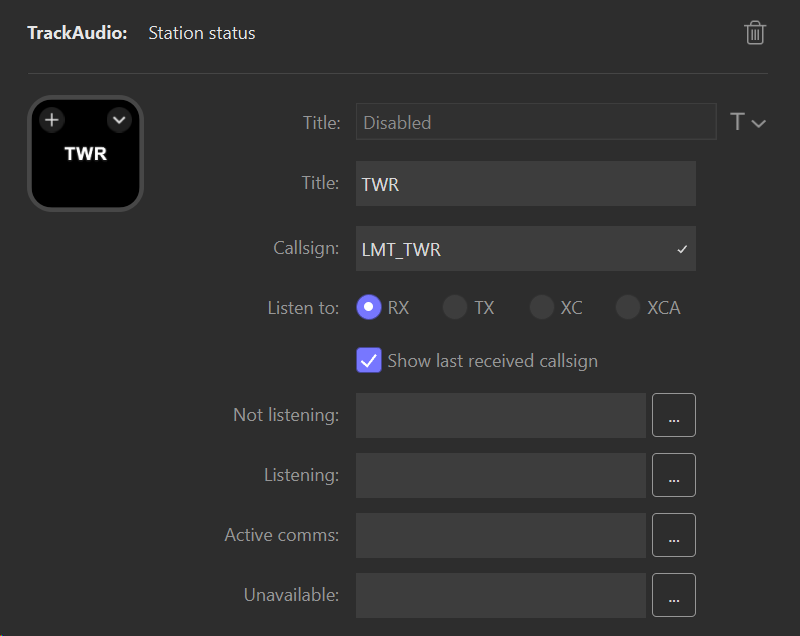
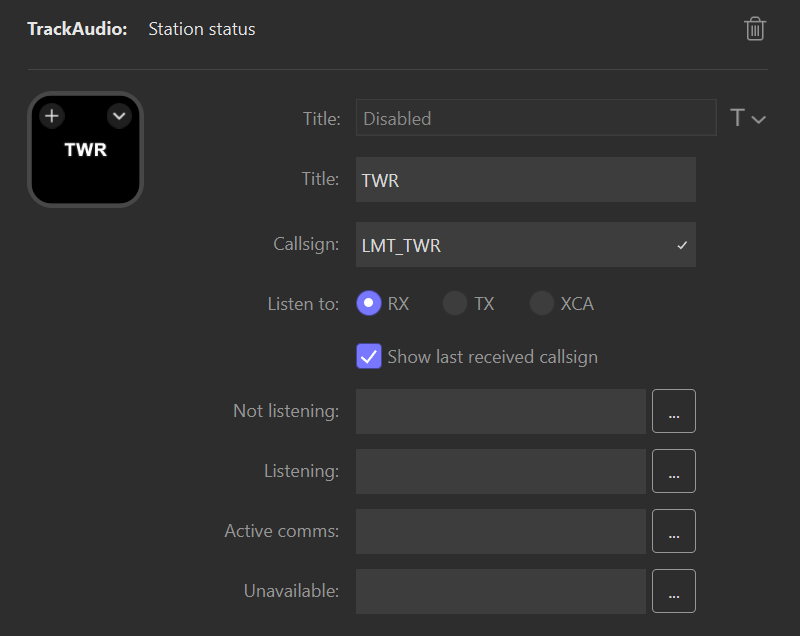
Remove 'rx' support from station state action Fixes #142

diff --git a/com.neil-enns.trackaudio.sdPlugin/pi/stationStatus.html b/com.neil-enns.trackaudio.sdPlugin/pi/stationStatus.html
@@ -25,7 +25,6 @@
       <sdpi-radio setting="listenTo" default="rx" columns="4">
         <option value="rx">RX</option>
         <option value="tx">TX</option>
-        <option value="xc">XC</option>
         <option value="xca">XCA</option>
       </sdpi-radio>
     </sdpi-item>

diff --git a/README.md b/README.md
@@ -16,13 +16,13 @@ This StreamDeck plugin provides actions to interact with TrackAudio. [Download t
 
 ## Action descriptions
 
-| Action            | Description                                                                                                                                                                      |
-| ----------------- | -------------------------------------------------------------------------------------------------------------------------------------------------------------------------------- |
-| ATIS letter       | Shows the current ATIS letter for a specific station.                                                                                                                            |
-| Hotline           | Switches active TX between two stations, typically a primary controlling position and a secondary hotline position.                                                              |
-| Push to talk      | Triggers TX on all TX frequencies, as if pressing the push to talk key configured in TrackAudio.                                                                                 |
-| Station status    | Shows the current RX, TX, XC, or XCA for a specific station. Pressing the action toggles specified state for that station. Also shows the last received callsign by the station. |
-| TrackAudio status | Shows the current state of the connection to TrackAudio from StreamDeck and whether TrackAudio is voice connected to VATSIM.                                                     |
+| Action            | Description                                                                                                                                                                  |
+| ----------------- | ---------------------------------------------------------------------------------------------------------------------------------------------------------------------------- |
+| ATIS letter       | Shows the current ATIS letter for a specific station.                                                                                                                        |
+| Hotline           | Switches active TX between two stations, typically a primary controlling position and a secondary hotline position.                                                          |
+| Push to talk      | Triggers TX on all TX frequencies, as if pressing the push to talk key configured in TrackAudio.                                                                             |
+| Station status    | Shows the current RX, TX, or XCA for a specific station. Pressing the action toggles specified state for that station. Also shows the last received callsign by the station. |
+| TrackAudio status | Shows the current state of the connection to TrackAudio from StreamDeck and whether TrackAudio is voice connected to VATSIM.                                                 |
 
 After installation the plugin actions are available under the TrackAudio category:
 
@@ -49,7 +49,7 @@ configure the station status action like this to show that RX is enabled and the
 | --------------------------- | --------------------------------------------------------------------------------------------------------- | --------------------------------------------------------------- |
 | Title                       | The title to show on the action. Optional.                                                                | Station callsign and listen to value                            |
 | Callsign                    | The callsign for the station you want to display status for. Required.                                    |                                                                 |
-| Listen to                   | What status to display on the button, either RX, TX, XC, or XCA. Required.                                | RX                                                              |
+| Listen to                   | What status to display on the button, either RX, TX, or XCA. Required.                                    | RX                                                              |
 | Show last received callsign | When checked, the last received callsign will be appended to the action title. Only when listening to RX. | Disabled                                                        |
 | Not listening               | The image to display when the station is not currently active. Optional.                                  | ![Black background](docs/images/stationstatus-notlistening.png) |
 | Listening                   | The image to display when the station is active. Optional.                                                | ![Green background](docs/images/stationstatus-listening.png)    |
